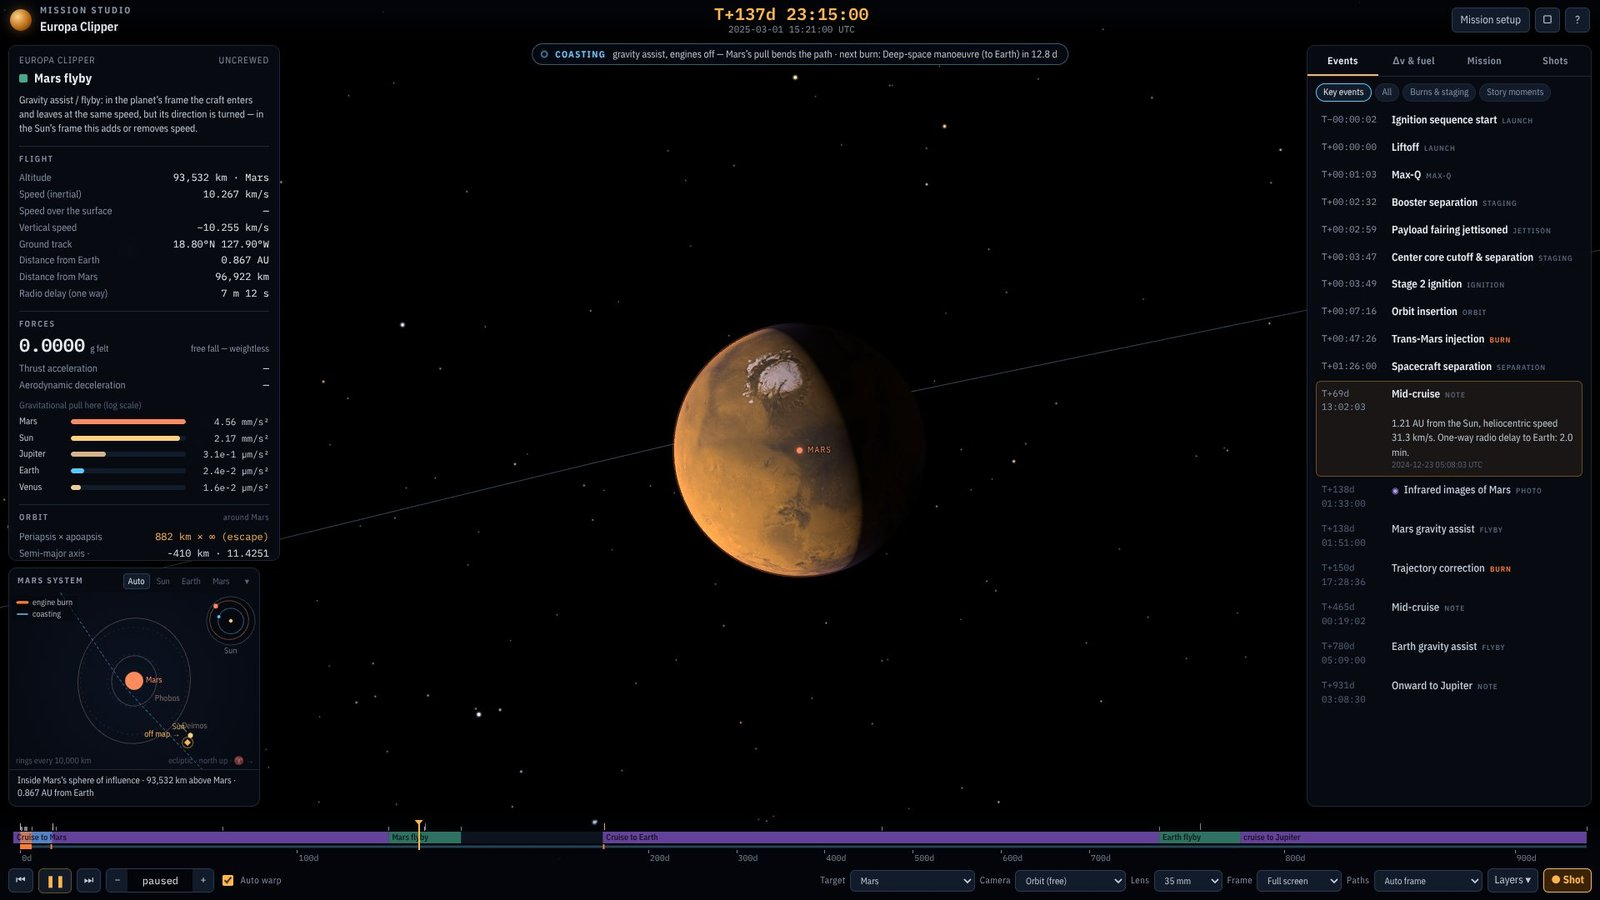
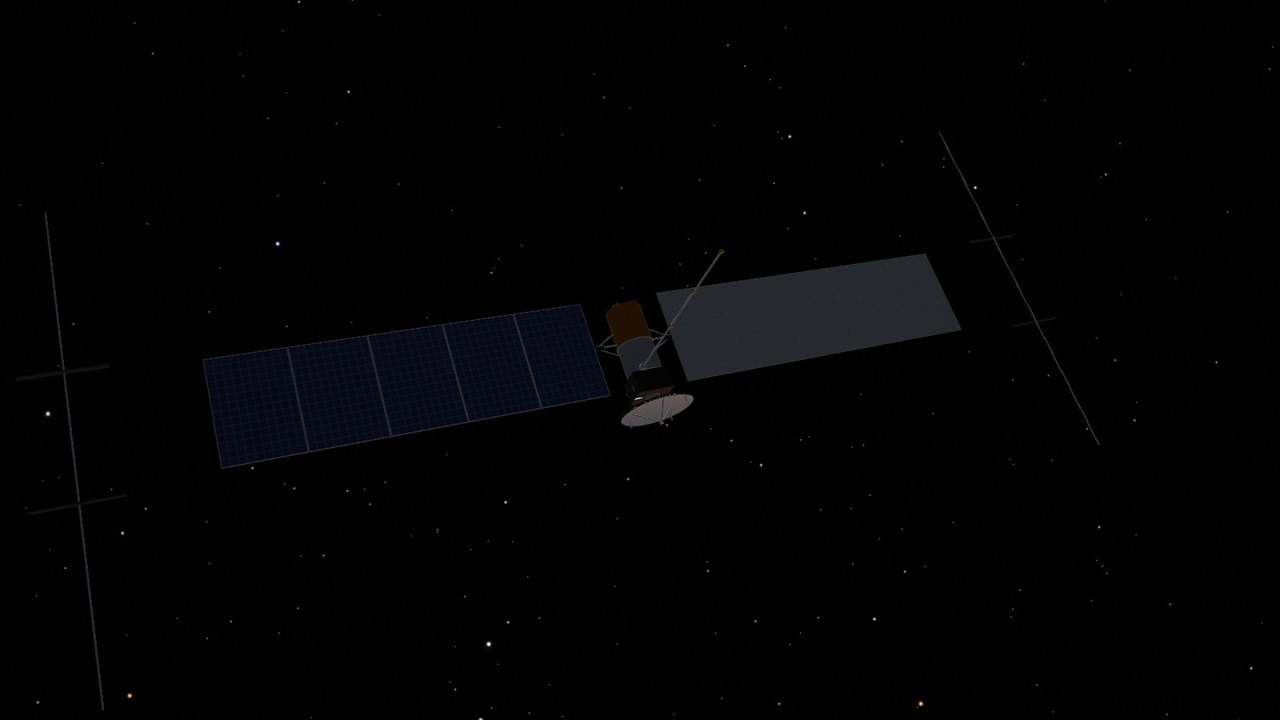
README: screenshots of the current models
The eleven pictures from the site's project page, at 1280×720: the pad,
the docked station, the rollout, the ascent, Hubble on the arm, the entry
glow, the glide home, the sky crane, the rover's drive, Europa Clipper
and lunar orbit insertion. The TLI and rover pictures of the old models
are gone.

diff --git a/README.md b/README.md
@@ -58,9 +58,11 @@
 
 | | |
 |---|---|
-| ![STS-135: Atlantis docked to the International Space Station](media/screenshot-iss.jpg) | ![STS-135: Atlantis touching down on Runway 15 at Kennedy before dawn, drag chute out](media/screenshot-landing.jpg) |
-| ![Trans-lunar injection: the burn as an orange ribbon over Earth](media/screenshot-tli.jpg) | ![Perseverance on Mars: wheel tracks and its shadow](media/screenshot-rover.jpg) |
-| ![Europa Clipper flying past Mars for a gravity assist](media/screenshot-clipper.jpg) | ![Apollo 11 arriving at the Moon for lunar orbit insertion](media/screenshot-loi.jpg) |
+| ![STS-135: Atlantis docked to the International Space Station](media/screenshot-iss.jpg) | ![STS-135: Atlantis rolling out on Runway 15 at Kennedy before dawn, drag chute out](media/screenshot-landing.jpg) |
+| ![STS-135 at T+105 s: the boosters' plumes spread in the thin air, the sky turning black](media/screenshot-ascent.jpg) | ![STS-31: Discovery's arm holds Hubble over the payload bay](media/screenshot-hubble.jpg) |
+| ![STS-135 in entry: the shock layer glows under the belly](media/screenshot-entry.jpg) | ![STS-31: Discovery gliding 25 km up in the blue air at the end of entry](media/screenshot-glide.jpg) |
+| ![The sky crane lowers Perseverance under Mars's butterscotch sky](media/screenshot-skycrane.jpg) | ![Perseverance on its first drive, wheel tracks behind it](media/screenshot-drive.jpg) |
+| ![Europa Clipper before its Mars flyby](media/screenshot-clipper.jpg) | ![Apollo 11 arriving at the Moon for lunar orbit insertion](media/screenshot-loi.jpg) |
 
 ## Missions
 

diff --git a/README.ko.md b/README.ko.md
@@ -75,7 +75,11 @@
 
 | | |
 |---|---|
-| ![STS-135: 국제우주정거장에 도킹한 아틀란티스](media/screenshot-iss.jpg) | ![STS-135: 새벽 케네디 우주센터 15번 활주로에 감속 낙하산을 펴고 착륙하는 아틀란티스](media/screenshot-landing.jpg) |
+| ![STS-135: 국제우주정거장에 도킹한 아틀란티스](media/screenshot-iss.jpg) | ![STS-135: 새벽 케네디 우주센터 15번 활주로에서 감속 낙하산을 펴고 달리는 아틀란티스](media/screenshot-landing.jpg) |
+| ![STS-135 발사 105초 뒤: 옅은 공기 속에서 퍼지는 부스터의 불꽃, 검어지는 하늘](media/screenshot-ascent.jpg) | ![STS-31: 디스커버리의 로봇 팔이 허블을 화물칸 위로 들고 있다](media/screenshot-hubble.jpg) |
+| ![재진입 중인 STS-135: 배 아래에서 빛나는 충격층](media/screenshot-entry.jpg) | ![STS-31: 재진입이 끝나갈 무렵 고도 25 km의 푸른 공기 속을 활공하는 디스커버리](media/screenshot-glide.jpg) |
+| ![화성의 버터스카치색 하늘 아래 퍼서비어런스를 내리는 스카이 크레인](media/screenshot-skycrane.jpg) | ![첫 주행 중인 퍼서비어런스와 바퀴 자국](media/screenshot-drive.jpg) |
+| ![화성 스윙바이를 앞둔 유로파 클리퍼](media/screenshot-clipper.jpg) | ![달 궤도 진입을 위해 달에 다가가는 아폴로 11호](media/screenshot-loi.jpg) |
 
 ## 임무 목록
 
